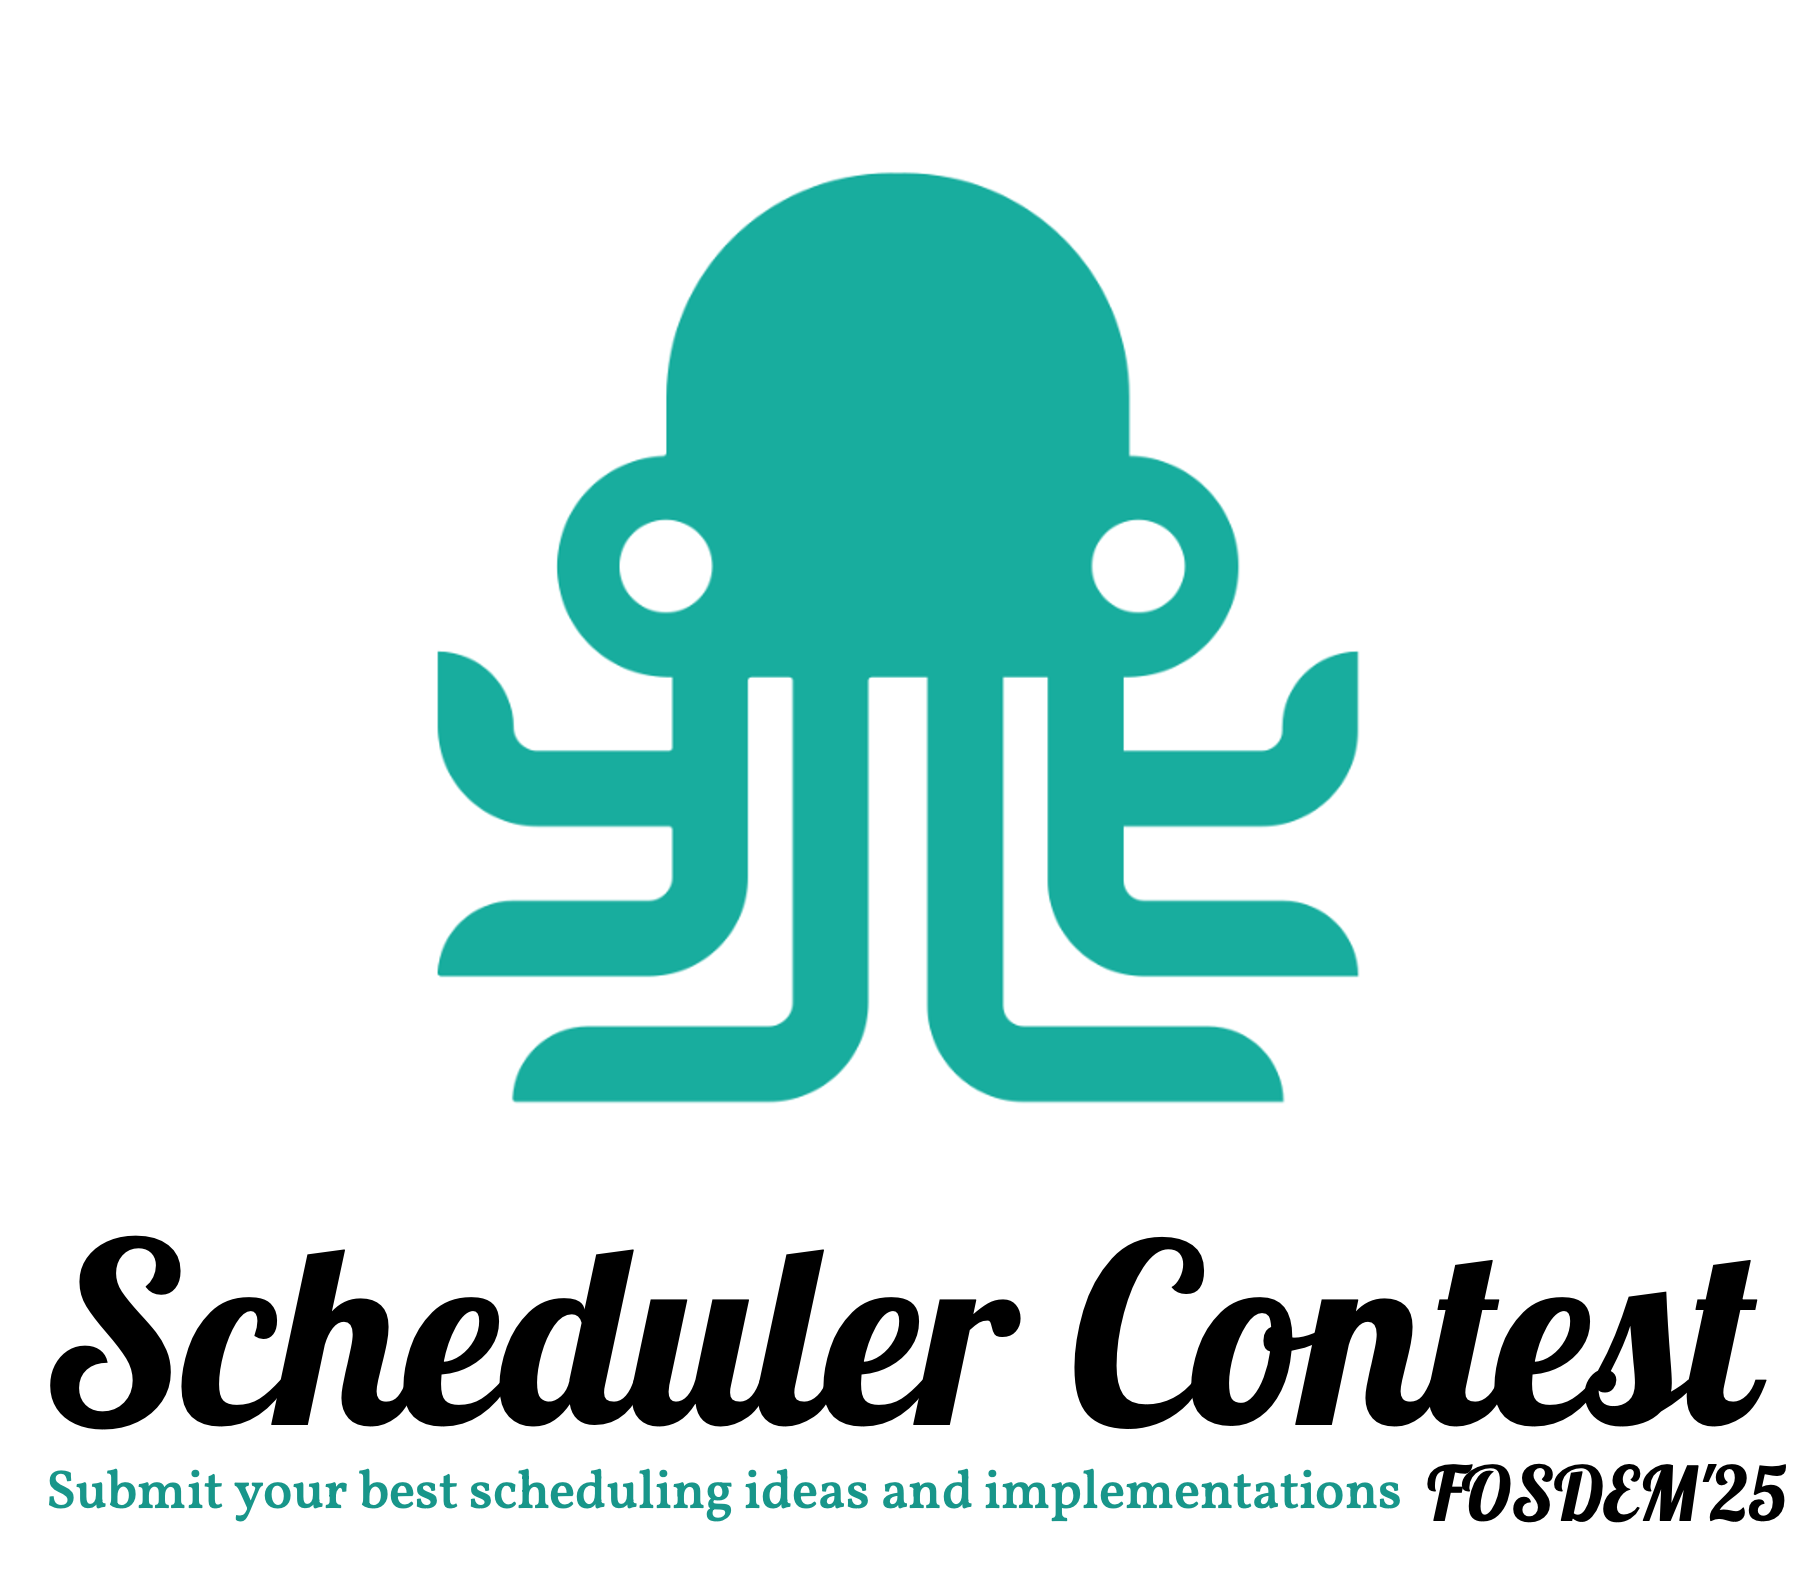
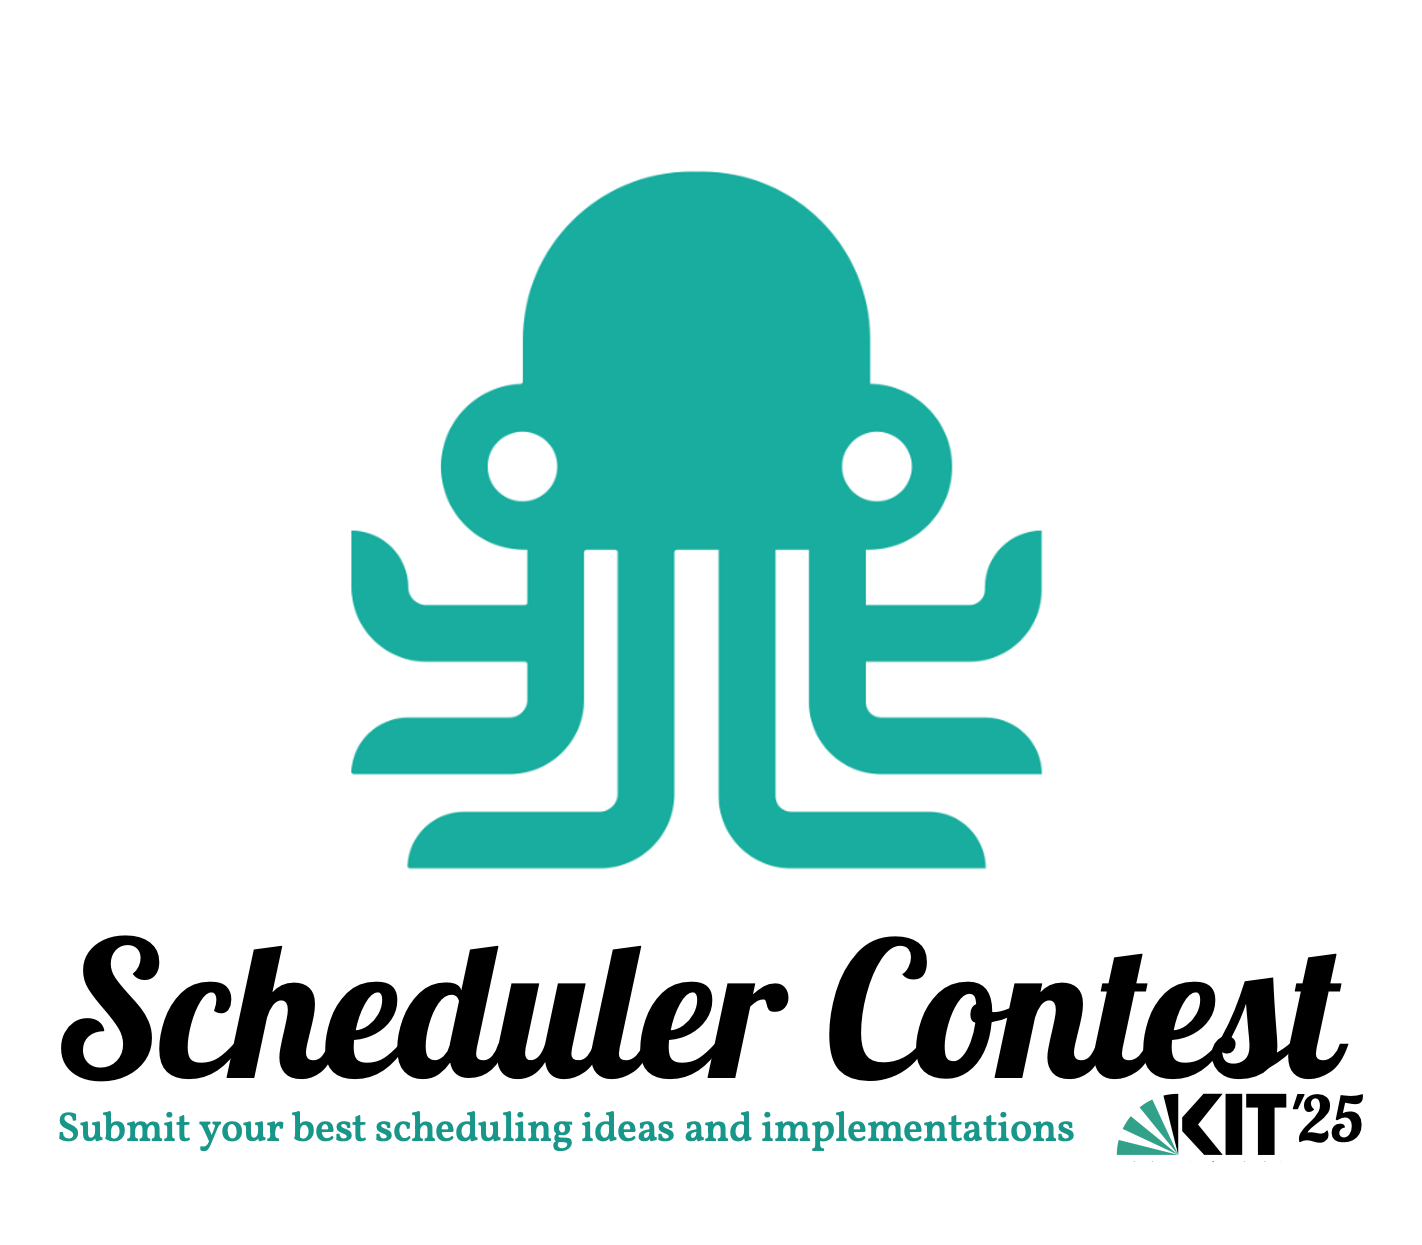
Initial commit

diff --git a/README.md b/README.md
@@ -1,4 +1,4 @@
-# Sched-ext Scheduler Contest FOSDEM'25
+# Sched-ext Scheduler Contest KIT'25
 
 ![Scheduler Contest Logo](./img/sched_contest.png)
 
@@ -23,9 +23,9 @@ Try to surprise us...
 
 ## Deadlines & Announcement:
 
-The submission deadline is **Sunday, 2 February, at 10:00 AM** (CET).
+The submission deadline is **Sunday, 9 March, at 23:59** (CET).
 
-Winners will be announced during Andrea Righi's talk on the [Kernel](https://fosdem.org/2025/schedule/track/kernel/) track, "[Level Up Your Linux Gaming: How Sched-ext Can Save Your FPS](https://fosdem.org/2025/schedule/event/fosdem-2025-4618-level-up-your-linux-gaming-how-schedext-can-save-your-fps/)," from **12:30 to 13:10**.
+Winners will be announced in the OS course ILIAS the following day.
 
 ## Prizes:
 
@@ -34,19 +34,15 @@ Winners will be announced during Andrea Righi's talk on the [Kernel](https://fos
 
 ## Important:
 
-To claim your prize, **you must be present during Andrea’s talk**. By participating, you agree to share your submission under GPL licensing and allow us to showcase it.
+To claim your prize, **you must be part of the ILIAS course and respond till end of March**. By participating, you agree to share your submission under GPL licensing and allow us to showcase it.
 
 ## Legal Note:
 
-This contest is for fun! We, Andrea and Johannes, select the winners based on our personal preferences and our own definition of "best". All decisions are final, and we’re not liable beyond delivering the prizes to the winners. If you have any questions, feel free to create a GitHub issue.
+This contest is for fun! We, Lukas Werling and Johannes Bechberger, select the winners based on our personal preferences and our own definition of "best". All decisions are final, and we’re not liable beyond delivering the prizes to the winners. If you have any questions, feel free to create a GitHub issue.
 
-There will be multiple talks at FOSDEM’25 on sched-ext:
+## Resources
+You can learn about sched-ext from the resources listed in the [wiki](https://github.com/sched-ext/scx/wiki), which includes a basic tutorial, and the videos in the [sched-ext playlist](https://www.youtube.com/playlist?list=PLLLT4NxU7U1TnhgFH6k57iKjRu6CXJ3yB) on YouTube.
 
-- [Concurrency Testing using Custom Linux Schedulers](https://fosdem.org/2025/schedule/event/fosdem-2025-4489-concurrency-testing-using-custom-linux-schedulers/) (Saturday, 12:00, [Testing and Continuous Delivery](https://fosdem.org/2025/schedule/track/testing/) track)
-- [Rust-ifying the Linux kernel scheduler (in user space)](https://fosdem.org/2025/schedule/event/fosdem-2025-4620-rust-ifying-the-linux-kernel-scheduler-in-user-space-/) (Saturday, 17:20, [Rust](https://fosdem.org/2025/schedule/track/rust/) track)
-- [Writing a Minimal Scheduler with eBPF, sched_ext, and C](https://fosdem.org/2025/schedule/event/fosdem-2025-4458-writing-a-minimal-scheduler-with-ebpf-schedext-and-c/) (Saturday, 18:20, [eBPF](https://fosdem.org/2025/schedule/track/ebpf/) track)
-- [Level up your Linux gaming: how sched_ext can save your fps](https://fosdem.org/2025/schedule/event/fosdem-2025-4618-level-up-your-linux-gaming-how-schedext-can-save-your-fps/) (Sunday, 12:30, [Kernel](https://fosdem.org/2025/schedule/track/kernel/) track)
-
-Come by and get yourself a sched-ext sticker and valuable information on this fascinating topic.
-
-In the meantime, you can learn about sched-ext from the resources listed in the [wiki](https://github.com/sched-ext/scx/wiki), which includes a basic tutorial, and the videos in the [sched-ext playlist](https://www.youtube.com/playlist?list=PLLLT4NxU7U1TnhgFH6k57iKjRu6CXJ3yB) on YouTube.
+The following repositories can be used to start playing around:
+- C code: https://github.com/parttimenerd/minimal-scheduler
+- Rust code: https://github.com/arighi/scx_rust_scheduler

diff --git a/submissions/ideas.md b/submissions/ideas.md
@@ -2,7 +2,7 @@
 
 _The following is a sample idea_
 
-## Schedule based on incoming network packages
+## Example Idea: Schedule based on incoming network packages
 
 A scheduler that knows which processes are related to which
 server port and can therefore directly schedule (or prioritise)
@@ -11,12 +11,3 @@ This should reduce latency.
 
 _This could be it. But don't feel shy to add a bit more explanation._
 
-## match-max-host-concurrency
-
-A task scheduler for the parallel workloads running inside a guest
-that looks up the value of N = the vm's cpu.max.concurrency [1] field
-provided by the host at every timeslice expiration, and places tasks
-on 0-N vcpus, in order to match the number of active vcpus on the host
-with the value of N.
-
-[1] https://www.fosdem.org/2025/schedule/event/fosdem-2025-6283-a-new-cgroup-cpu-max-concurrency-controller-interface-file/

diff --git a/submissions/implementations.md b/submissions/implementations.md
@@ -6,6 +6,8 @@ and add a description too. These descriptions should help
 us to quickly discern what your intention is with this
 scheduler.
 
+The following is an example idea from cluosh (https://github.com/sched-ext/fosdem25/pull/2):
+
 ## weird_prios
 
 Tries to use a priority queue based on the prio value/whether it's a kernel thread. I don't really have lots of kernel knowledge or ebpf knowledge so this is a bit a mess and probably does not make any sense at all :D Uses the scripts from the minimal_scheduler repo.
